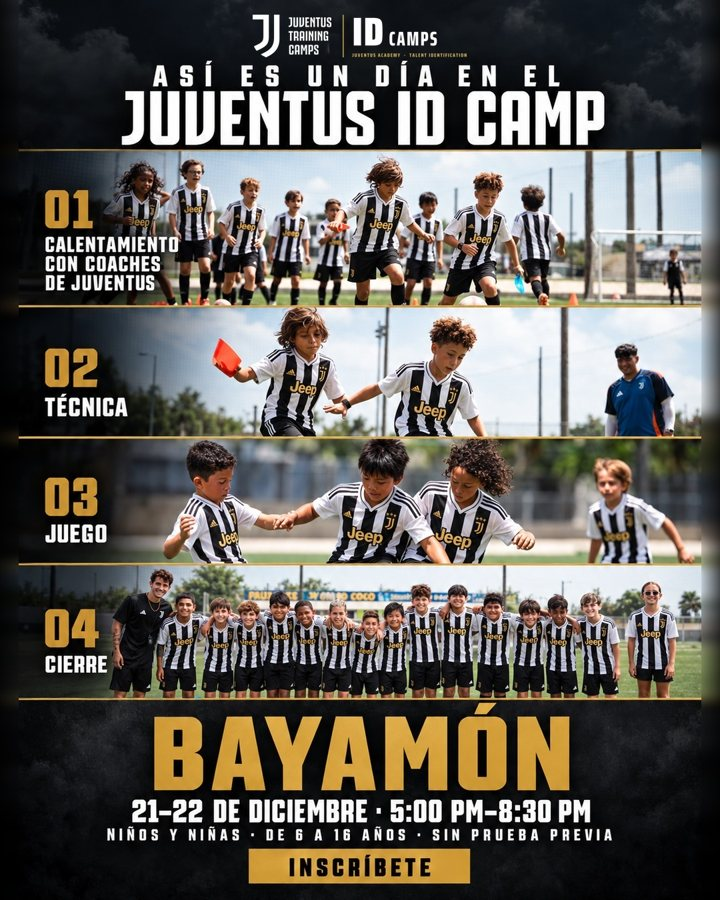
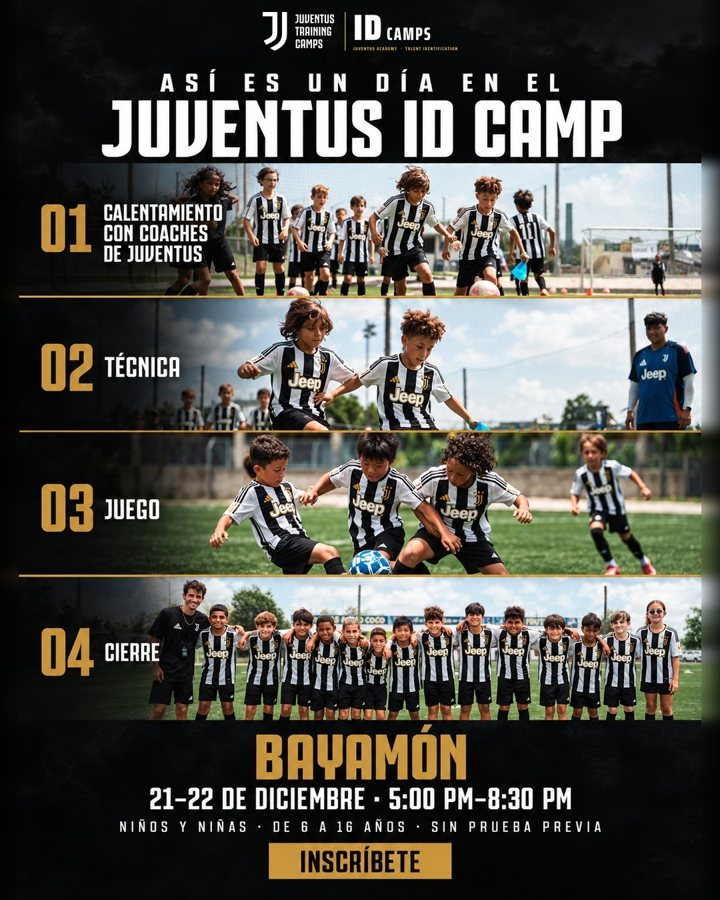
Un día de Bayamón: Jeep blanco con borde dorado

diff --git a/index.html b/index.html
@@ -109,7 +109,7 @@ footer{margin-top:40px;color:var(--muted);font-size:14px;border-top:1px solid va
   <article class="ad" data-id="PUE_1">
   <header><span class="num">1</span><h3>HERO-POSTER (Imagen)</h3><span class="idi">Español</span><span class="estado" data-estado>Lista</span></header>
   <div class="cuerpo">
-    <div class="media"><img src="assets/PUE_1.jpg?v=2" alt="HERO-POSTER (Imagen) · Puebla"></div>
+    <div class="media"><img src="assets/PUE_1.jpg?v=3" alt="HERO-POSTER (Imagen) · Puebla"></div>
     <div class="copy">
       <div class="lbl">Texto principal <span class="hint">· se puede editar</span></div>
       <div class="tp ed" contenteditable="true" spellcheck="true" data-campo="texto">ATENCIÓN PUEBLA 👉 El Juventus ID Camp llega a Puebla el 14, 15 y 16 de diciembre.<br><br>Son tres días entrenando con coaches de Juventus Academy que vienen desde Italia, con la misma metodología con la que Juventus forma a los jugadores de su academia en Italia: trabajo físico, técnico y táctico, adaptado a cada edad.<br><br>📅 14, 15 y 16 de diciembre · 3:00 – 5:00 PM<br>📍 Colegio San Ángel, Puebla, Pue.<br>⚽ Niños y niñas de 6 a 17 años<br><br>Toca Registrarte e inscríbelo en línea 👇</div>
@@ -166,7 +166,7 @@ footer{margin-top:40px;color:var(--muted);font-size:14px;border-top:1px solid va
 </article><article class="ad" data-id="PUE_4">
   <header><span class="num">4</span><h3>STATIC UN DÍA EN EL ID CAMP (Imagen)</h3><span class="idi">Español</span><span class="estado" data-estado>Lista</span></header>
   <div class="cuerpo">
-    <div class="media"><img src="assets/PUE_4.jpg?v=2" alt="STATIC UN DÍA EN EL ID CAMP (Imagen) · Puebla"></div>
+    <div class="media"><img src="assets/PUE_4.jpg?v=3" alt="STATIC UN DÍA EN EL ID CAMP (Imagen) · Puebla"></div>
     <div class="copy">
       <div class="lbl">Texto principal <span class="hint">· se puede editar</span></div>
       <div class="tp ed" contenteditable="true" spellcheck="true" data-campo="texto">Así es un día en el Juventus ID Camp ⚽<br><br>Calentamiento con coaches de Juventus Academy que vienen desde Italia, trabajo técnico, juego y cierre. Cada sesión sigue la metodología Juventus, en grupos pequeños por edad, y cada jugador recibe atención individual de los coaches.<br><br>📅 14, 15 y 16 de diciembre · 3:00 – 5:00 PM<br>📍 Colegio San Ángel, Puebla, Pue.<br>⚽ Niños y niñas de 6 a 17 años<br><br>No hace falta prueba previa. Toca Registrarte e inscríbelo en línea 👇</div>
@@ -242,7 +242,7 @@ footer{margin-top:40px;color:var(--muted);font-size:14px;border-top:1px solid va
   <article class="ad" data-id="BAY_1">
   <header><span class="num">1</span><h3>HERO-POSTER (Imagen)</h3><span class="idi">Español</span><span class="estado" data-estado>Lista</span></header>
   <div class="cuerpo">
-    <div class="media"><img src="assets/BAY_1.jpg?v=2" alt="HERO-POSTER (Imagen) · Bayamón"></div>
+    <div class="media"><img src="assets/BAY_1.jpg?v=3" alt="HERO-POSTER (Imagen) · Bayamón"></div>
     <div class="copy">
       <div class="lbl">Texto principal <span class="hint">· se puede editar</span></div>
       <div class="tp ed" contenteditable="true" spellcheck="true" data-campo="texto">ATENCIÓN BAYAMÓN 👉 El Juventus ID Camp llega a Bayamón el 21 y 22 de diciembre.<br><br>Son dos días entrenando con coaches de Juventus Academy que vienen desde Italia, con la misma metodología con la que Juventus forma a los jugadores de su academia en Italia: trabajo físico, técnico y táctico, adaptado a cada edad.<br><br>📅 21 y 22 de diciembre · 5:00 PM – 8:30 PM<br>📍 Bayamón Soccer Complex, Bayamón, PR<br>⚽ Niños y niñas de 6 a 16 años<br><br>Toca Registrarte e inscríbelo en línea 👇</div>
@@ -299,7 +299,7 @@ footer{margin-top:40px;color:var(--muted);font-size:14px;border-top:1px solid va
 </article><article class="ad" data-id="BAY_4">
   <header><span class="num">4</span><h3>STATIC UN DÍA EN EL ID CAMP (Imagen)</h3><span class="idi">Español</span><span class="estado" data-estado>Lista</span></header>
   <div class="cuerpo">
-    <div class="media"><img src="assets/BAY_4.jpg" alt="STATIC UN DÍA EN EL ID CAMP (Imagen) · Bayamón"></div>
+    <div class="media"><img src="assets/BAY_4.jpg?v=3" alt="STATIC UN DÍA EN EL ID CAMP (Imagen) · Bayamón"></div>
     <div class="copy">
       <div class="lbl">Texto principal <span class="hint">· se puede editar</span></div>
       <div class="tp ed" contenteditable="true" spellcheck="true" data-campo="texto">Así es un día en el Juventus ID Camp ⚽<br><br>Calentamiento con coaches de Juventus Academy que vienen desde Italia, trabajo técnico, juego y cierre. Cada sesión sigue la metodología Juventus, en grupos pequeños por edad, y cada jugador recibe atención individual de los coaches.<br><br>📅 21 y 22 de diciembre · 5:00 PM – 8:30 PM<br>📍 Bayamón Soccer Complex, Bayamón, PR<br>⚽ Niños y niñas de 6 a 16 años<br><br>No hace falta prueba previa. Toca Registrarte e inscríbelo en línea 👇</div>
